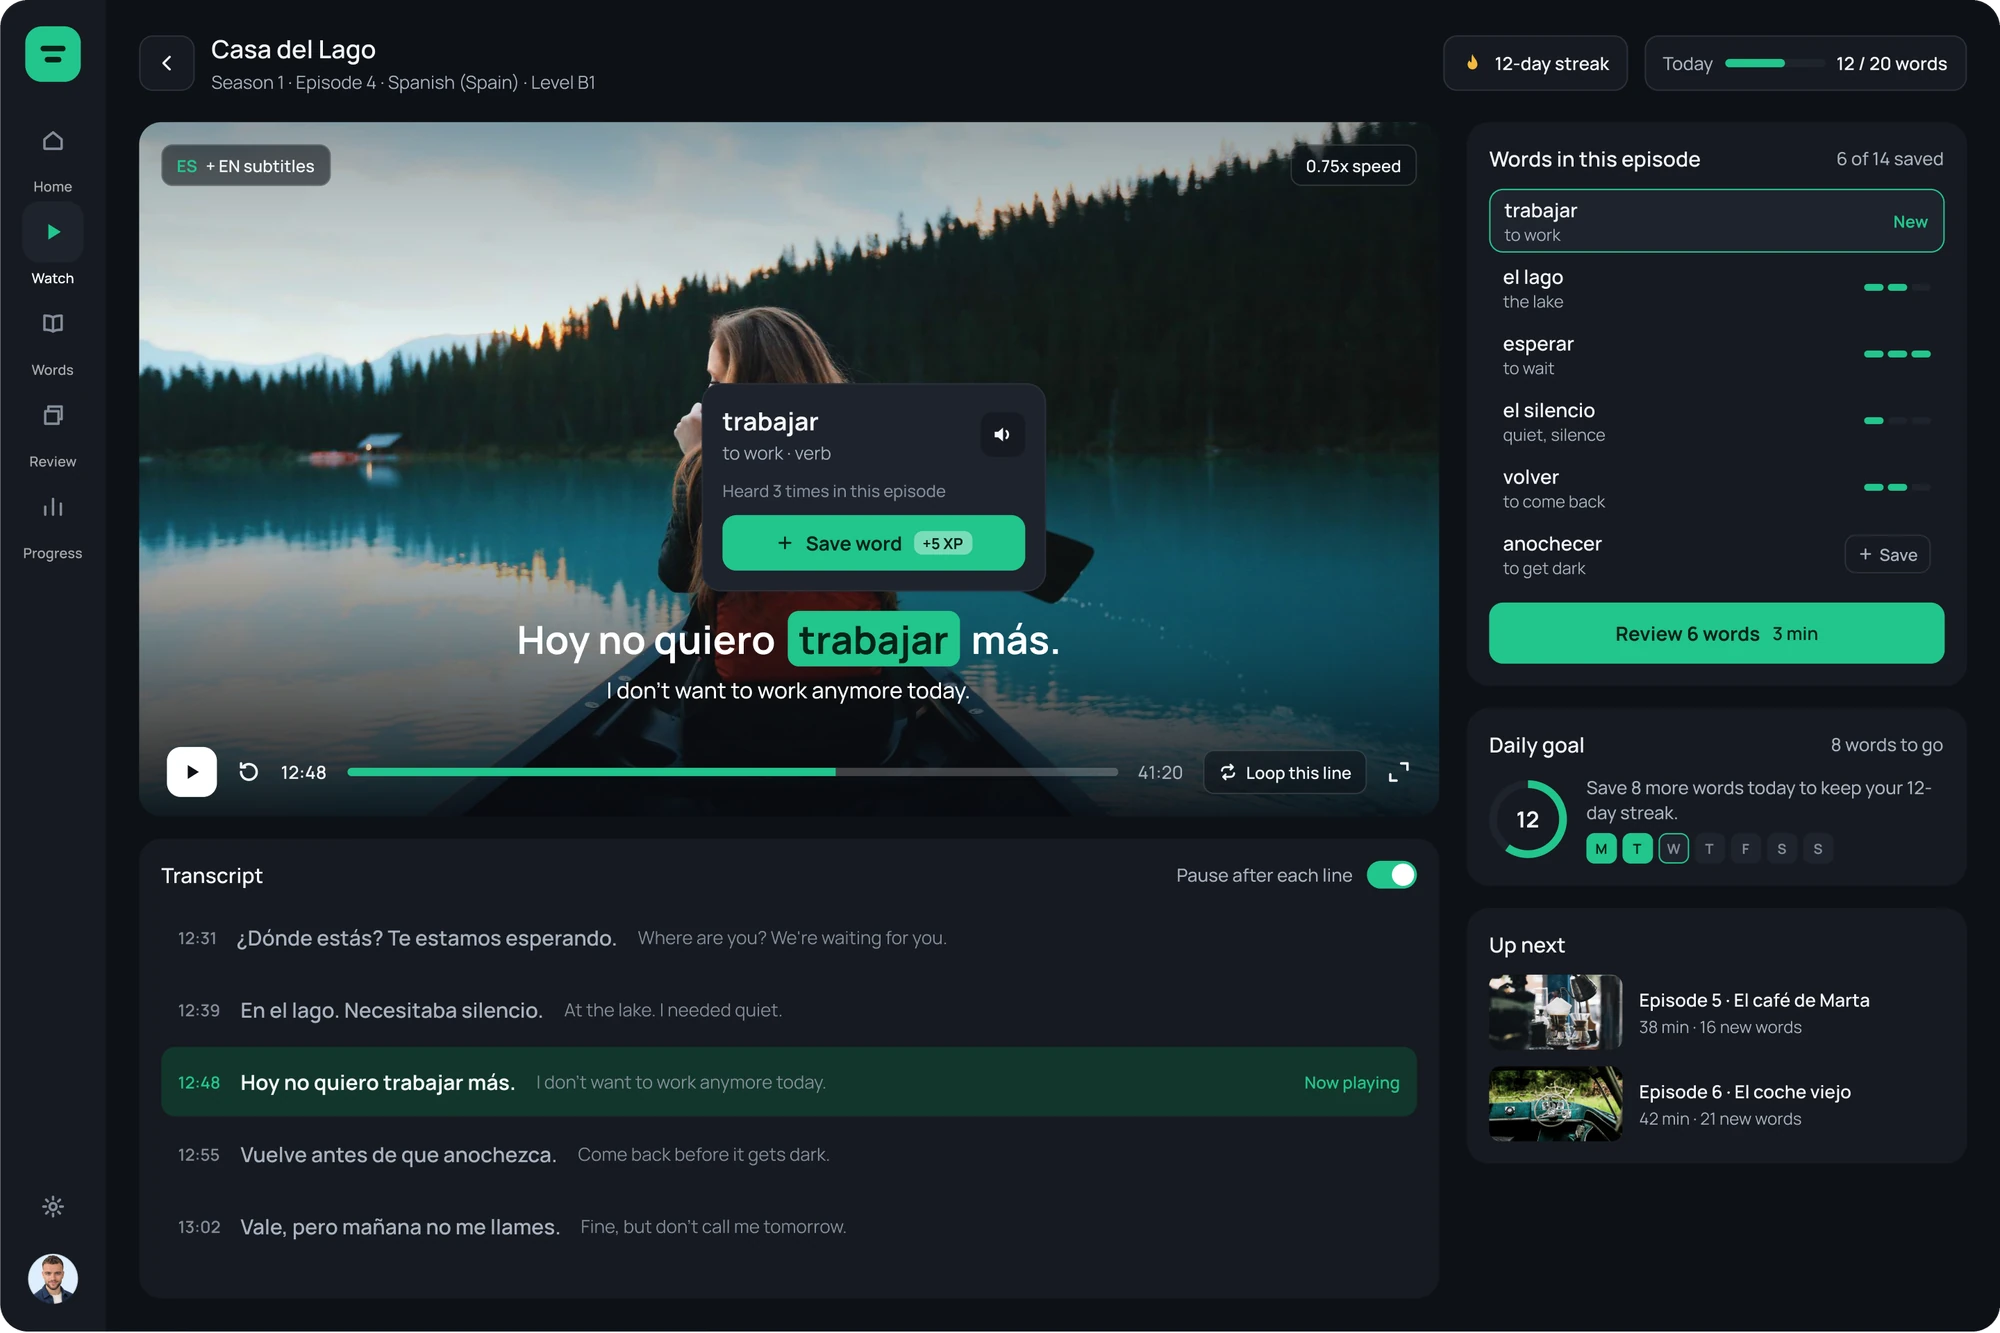
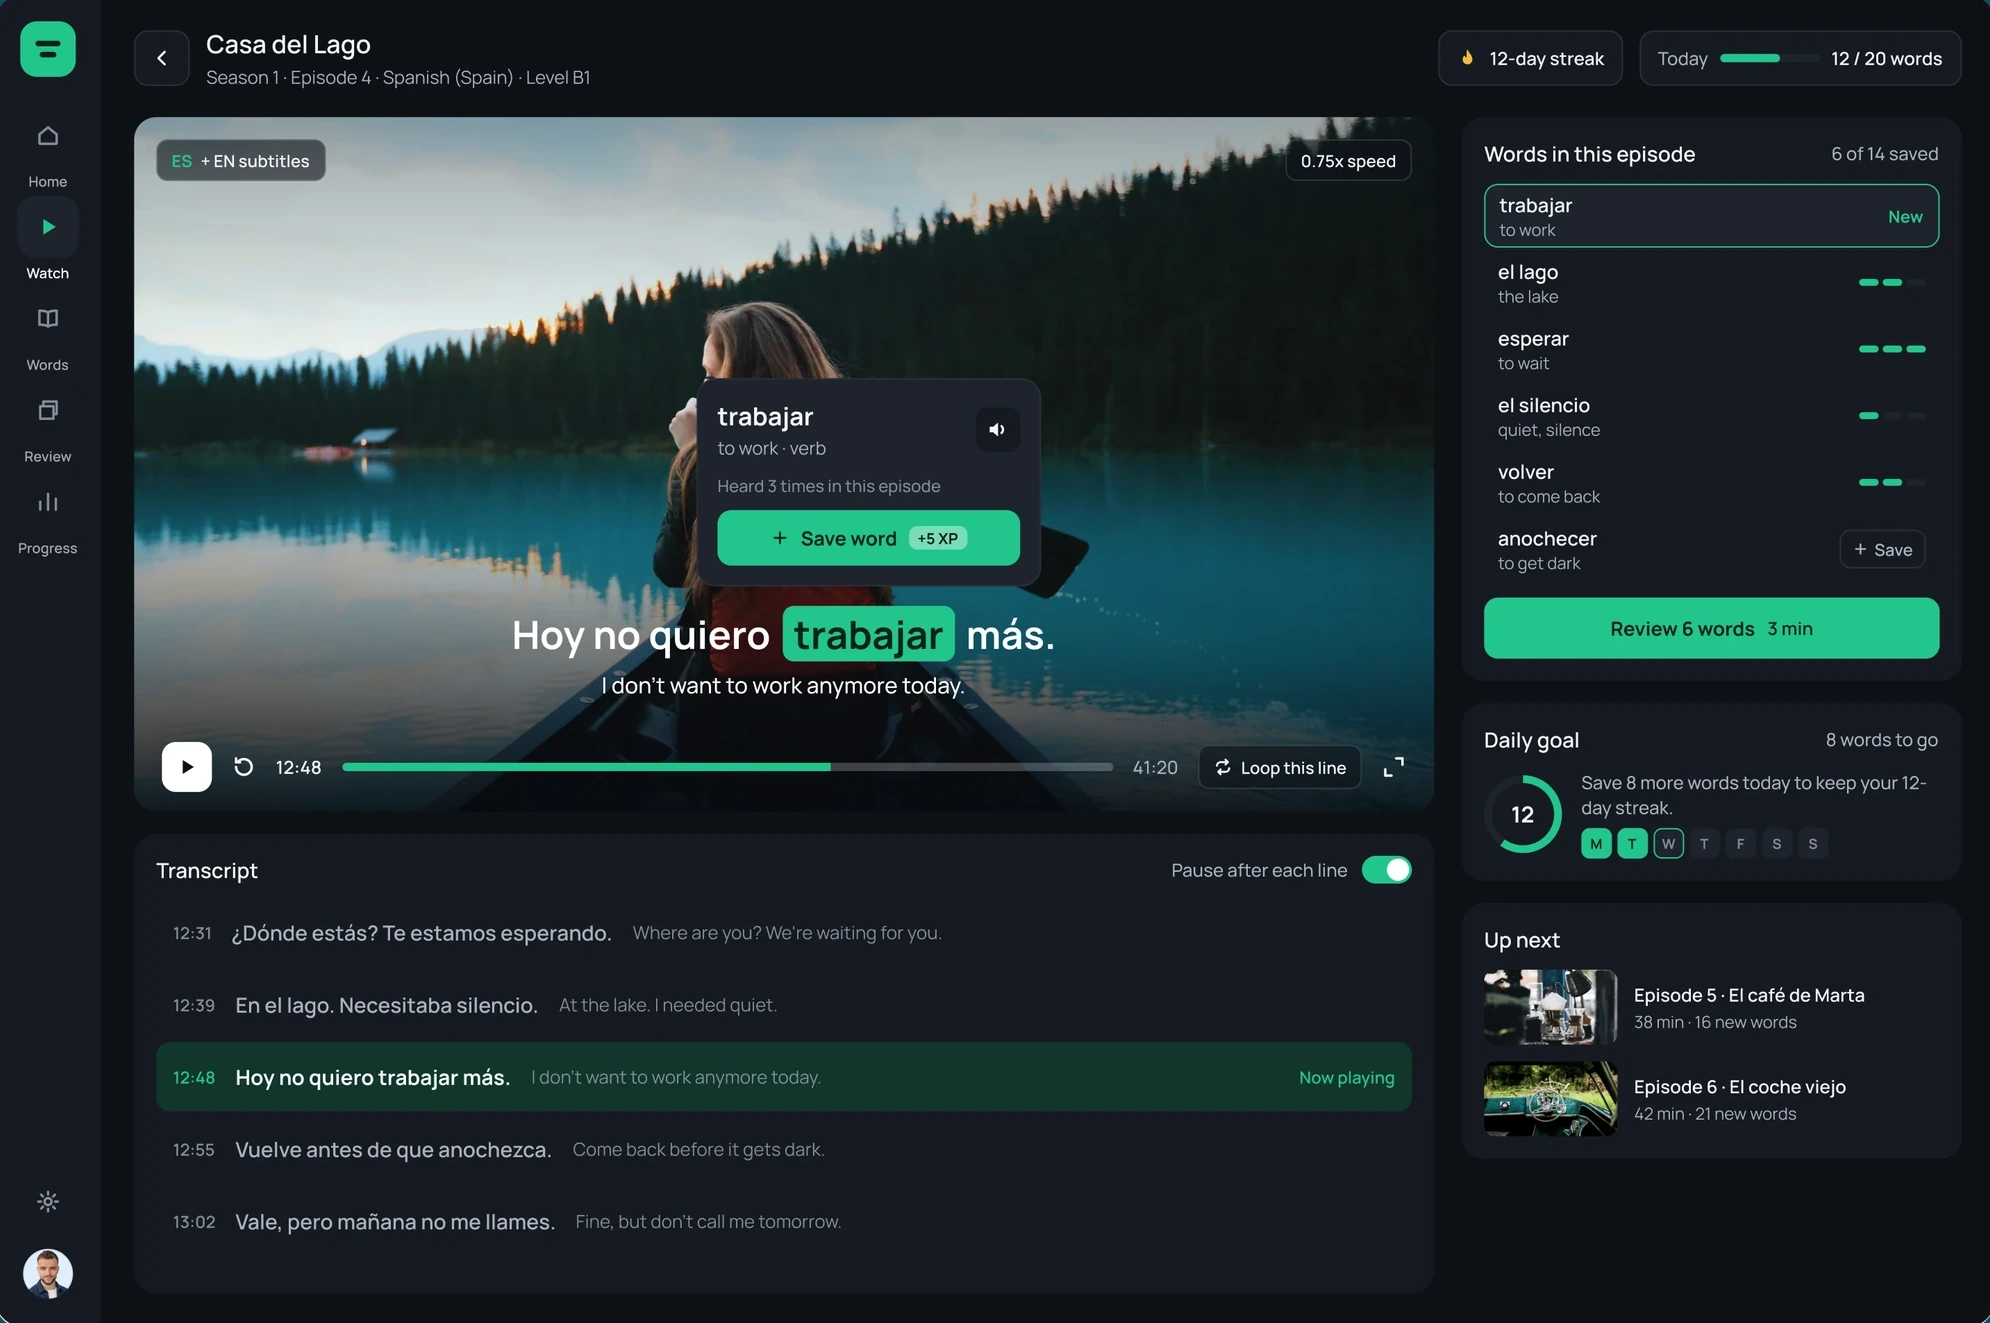
Work deck: sharp opaque screens with one corner radius, cache-busted; controls pinned to the card bottom
Claude-Session: https://claude.ai/code/session_015n8NyTaavCWMLN2V5zUxE4

diff --git a/app/globals.css b/app/globals.css
@@ -2019,3 +2019,12 @@ html.is-end .to-top { transform: none; }
 .faq-card { padding: 16px 16px 24px; border-radius: 20px; box-shadow: none; }
 .faq-card img.faq-photo { width: 100%; height: auto; aspect-ratio: 1891 / 832; border-radius: 12px; object-fit: cover; margin-bottom: 6px; }
 .faq-card > :not(.faq-photo) { margin-inline: 12px; }
+
+/* Work deck: same rounded corners on every desktop screen, controls pinned to the bottom of the card */
+.sd-slide img.is-round { border-radius: 14px; filter: none; box-shadow: 0 24px 40px -16px rgba(0, 0, 0, .55); }
+:root[data-theme="light"] .sd-slide img.is-round { box-shadow: 0 20px 36px -16px rgba(0, 0, 0, .2); }
+.bx-soft .bx-deck { display: flex; flex-direction: column; }
+.bx-soft .bx-deck .sd { flex: 1; }
+.sd-stage { margin-block: auto; }
+.sd-foot { margin-top: auto; }
+.sd-label { margin-bottom: 6px; }

diff --git a/components/SwipeDeck.jsx b/components/SwipeDeck.jsx
@@ -53,7 +53,7 @@ export default function SwipeDeck({ items }) {
               style={{ transform: `translate3d(${(pos * STEP * 100).toFixed(3)}%, 0, 0) scale(${(1 - 0.2 * Math.min(1, d)).toFixed(4)})`, opacity: Math.max(0, 1 - 0.72 * d), zIndex: 5 - Math.abs(k) }}
               onClick={(e) => { if (moved.current) { e.preventDefault(); return; } if (k !== 0) { e.preventDefault(); go(k); } }}>
               {/* eslint-disable-next-line @next/next/no-img-element */}
-              <img src={item.cut} alt={k === 0 ? item.alt : ""} draggable="false" loading="lazy" />
+              <img className={item.round ? "is-round" : undefined} src={item.cut} alt={k === 0 ? item.alt : ""} draggable="false" loading="lazy" />
             </Link>
           );
         })}

diff --git a/components/Bento.jsx b/components/Bento.jsx
@@ -61,7 +61,7 @@ export default function Bento() {
         </div>
         <div className="bx-card bx-work bx-deck" data-reveal>
           <h3 className="bx-t">Work</h3>
-          <SwipeDeck items={WORK.map((w) => ({ slug: w.slug, title: w.title, small: w.small, cut: `/work/cut/${w.small.split("?")[0].split("/").pop()}`, alt: w.alt, platform: w.platform, tags: w.tags }))} />
+          <SwipeDeck items={WORK.map((w) => ({ slug: w.slug, title: w.title, small: w.small, cut: `/work/cut/${w.small.split("?")[0].split("/").pop()}?v=4`, round: w.platform === "desktop", alt: w.alt, platform: w.platform, tags: w.tags }))} />
         </div>
         <Link href="/book/" className="bx-card bx-world" data-reveal>
           <h3 className="bx-t">Worldwide</h3>
